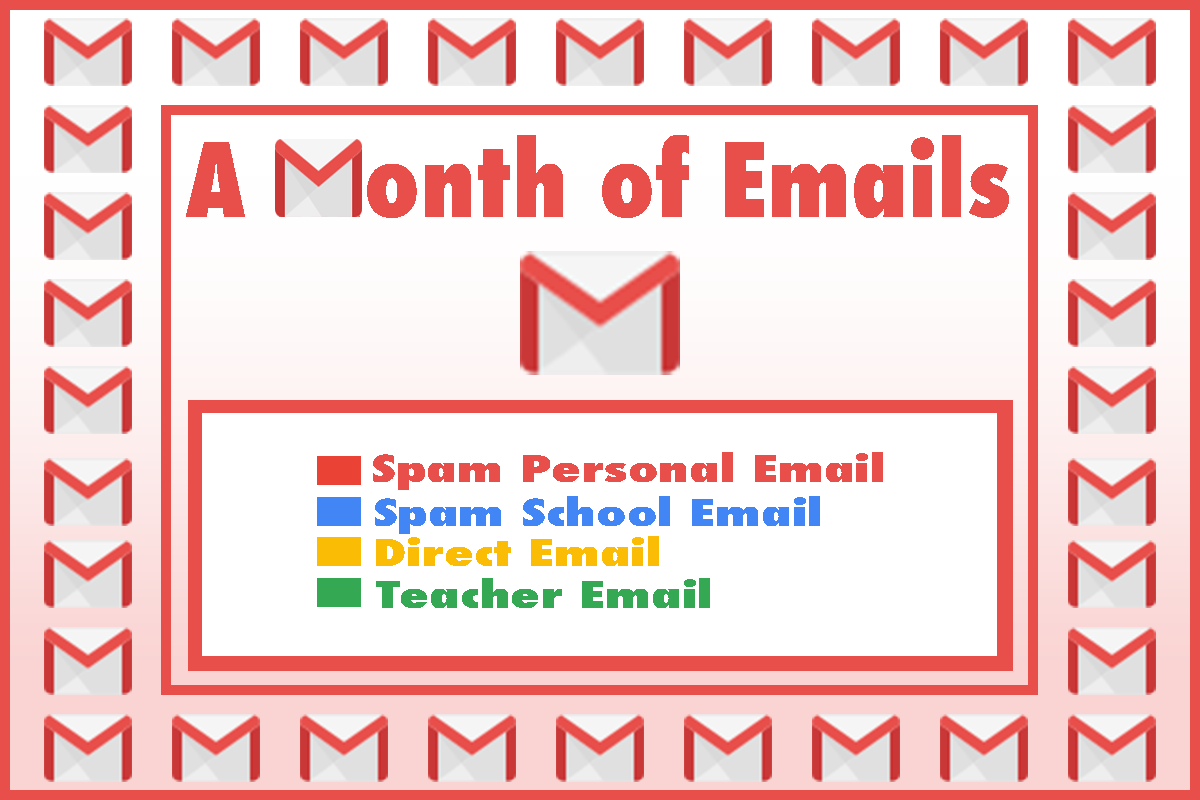
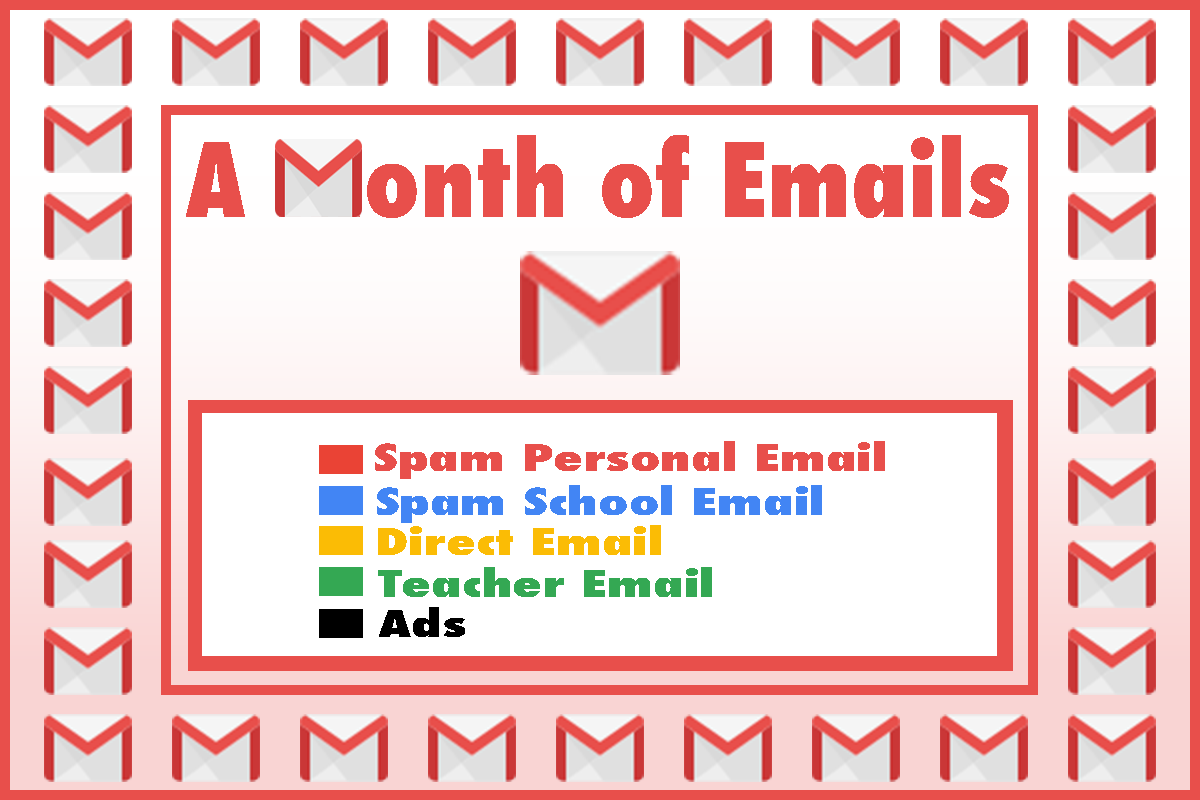
finished zine

Changed region(s): [[0.2467, 0.5312, 0.74, 0.8125]]

diff --git a/datazine-project/javascript/back.js b/datazine-project/javascript/back.js
@@ -7,10 +7,19 @@ let pieHeight = 800;
 let radius = Math.min(pieWidth, pieHeight) / 2;
 
 function gotData(data){
-  let color = d3.scaleOrdinal().range(["#EA4335","#4285F4","#FBBC05","#34A853"]);
+
+  let sortedByType = d3.nest()
+    .key(function(d) { return d.type; })
+    .entries(data);
+
+  console.log(sortedByType);
+
+  // let color = d3.scaleOrdinal().range(["#EA4335","#4285F4","#FBBC05","#34A853"]);
+  let color = ["#EA4335","#4285F4","#FBBC05","#34A853"];
 
   let pie = d3.pie()
-    .value(function(d) { return d.type; })(data);
+    .value(function(d) { return d.values.length; })(sortedByType);
+
 
   let arc = d3.arc()
     .outerRadius(radius - 10)
@@ -34,5 +43,6 @@ function gotData(data){
 
   g.append("path")
     .attr("d", arc)
-    .style("fill", function(d) { return color(d.data.type);});
+    .style("fill", function(d) { return color[d.index];});
+
 }

diff --git a/datazine-project/javascript/middlespreadpart3.js b/datazine-project/javascript/middlespreadpart3.js
@@ -27,7 +27,7 @@ function gotData(incomingData){
 
 function getColor3(datapoint){
   if(datapoint.generalSubject == "ad" || datapoint.generalSubject == "flight deals" || datapoint.generalSubject == "concert tickets"){
-    return "#4285F4";
+    return "#000000";
   } else {
     return "#D3D3D3";
   }

diff --git a/datazine-project/back.html b/datazine-project/back.html
@@ -3,6 +3,8 @@
   <head>
     <meta charset="utf-8">
     <title>Back</title>
+    <link rel = "stylesheet" type = "text/css" href = "style2.css" />
+
 
     <!-- Please leave this following line here -->
     <script src="https://d3js.org/d3.v5.min.js"></script>

diff --git a/datazine-project/style2.css b/datazine-project/style2.css
@@ -1,0 +1,3 @@
+svg{
+  margin-left: 200px;
+}

diff --git a/datazine-project/README.md b/datazine-project/README.md
@@ -1,0 +1,15 @@
+A Month of Emails
+
+For this zine, I compiled all the emails that I received for a month.
+There wound up being a whopping 350 emails!
+
+I from my data, I discovered a few interesting things about my inbox.
+
+1.) Only 7.4% of my emails were actually directly addressed to me.
+2.) 41.7% of my emails were trying to get my to buy something.
+3.) I received the majority of my personal spam emails between 3-9 AM while
+    received the majority of my school spam emails between 10AM-9PM
+4.) Only a handful of them were actually important.
+
+Because I only had a few days to work on this, I had to work fast and in that time I learned a lot.
+Most notably, although not a large component of the project, I became much more comfortable with my nemesis --CSS. I really struggled with working with data structures and d3, however by the end I was much more comfortable with them than I was when I started this project.
